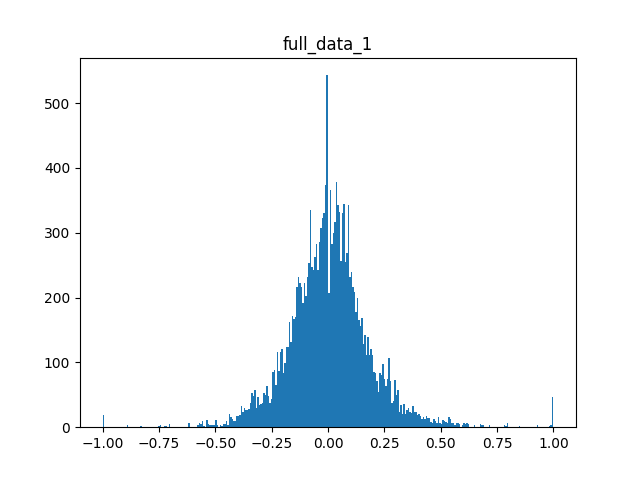
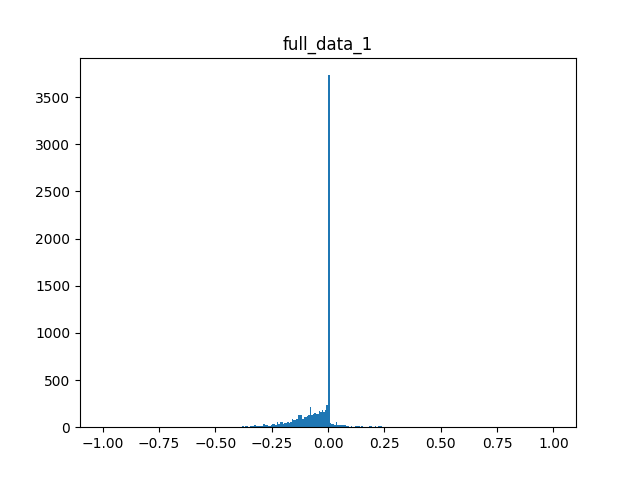
completed project

diff --git a/model.py b/model.py
@@ -28,14 +28,14 @@ with open(file_directory+"new_unbiased_driving_log.csv") as csvfile:
 
 def create_histogram(angle_array,bins=200,filename="histogram.png",range1=(-1,1)):
     n,bins,patches=plt.hist(angle_array,bins,range1)
-    plt.title(filename.split('.')[0])
-    plt.savefig(images_directory+filename)
-    plt.show()
+#    plt.title(filename.split('.')[0])
+#    plt.savefig(images_directory+filename)
+#    plt.show()
 
 
 #print("hi")
 np.random.seed(10)
-Split_data_ratio  = 0.5
+Split_data_ratio  = 0.70
 biased_data_ratio = 1.0
 biased_slab      = 0.005
 
@@ -87,7 +87,7 @@ def image_show(image,name="sample"):
     if ( not isinstance(name, str)):
         name ="display_name"
     cv2.imshow(name, image)
-    cv2.waitKey(1)
+    cv2.waitKey(0)
 
 def image_show_plt(image,name="sample"):
     plt.imshow(image)
@@ -107,13 +107,42 @@ def get_steering_angle(train_lines):
     return steering
 
 def Change_color(image):
-    # Needed as I trained my model on BGR image data
     return cv2.cvtColor(image,cv2.COLOR_BGR2RGB)
 
+def Change_colorSpace(image,color_space = "RGB"):
+    img_features = np.zeros(image.shape)
+    #2) Apply color conversion if other than 'RGB'
+    if color_space != 'RGB':
+        if color_space == 'HSV':
+            img_features = cv2.cvtColor(image, cv2.COLOR_RGB2HSV)
+        elif color_space == 'LUV':
+            img_features = cv2.cvtColor(image, cv2.COLOR_RGB2LUV)
+        elif color_space == 'HLS':
+            img_features = cv2.cvtColor(image, cv2.COLOR_RGB2HLS)
+        elif color_space == 'YUV':
+            img_features = cv2.cvtColor(image, cv2.COLOR_RGB2YUV)
+        elif color_space == 'YCrCb':
+            img_features = cv2.cvtColor(image, cv2.COLOR_RGB2YCrCb)
+    else: img_features = np.copy(image)
+    
+    return img_features
+
 def preprocessing(image):
-    image = Change_color(image)
+    color_space = "RGB"
+
+#    print(image)
+#    image = Change_color(image)
+#    save_image(image,"/Users/hemanth/Udacity/behavioralData/",name="model_RGB_image.png")
     image = trim_sky_hood(image)
+#    save_image(image,"/Users/hemanth/Udacity/behavioralData/",name="model_trim_image1.png")
+    image = Change_colorSpace(image, color_space)
+#    save_image(image,"/Users/hemanth/Udacity/behavioralData/",name="model_HLS_image1.png")
+
+#    image = resize_image(image,(64,64))
+#    print("image size",image.shape)
     image = resize_image(image,(64,64))
+#    save_image(image,"/Users/hemanth/Udacity/behsavioralData/",name="model_resize_image1.png")
+#    print("image size",image.shape)
     return image
 
 
@@ -156,8 +185,11 @@ def generateData(file_directory,train_lines,batch_size =1):
                 steering_flipped=[]
                 if(not '' in train_lines[itr][0:4]):
                     #image = cv2.imread(file_directory+train_lines[itr][0])
+                    image = cv2.imread(file_directory+'IMG/'+train_lines[itr][0].split('/')[-1])
+                    image = preprocessing(image)
                     try:
                         #image = cv2.imread(train_lines[itr][0])
+#                        print("file_directory: ",file_directory+'IMG/'+train_lines[itr][0].split('/')[-1],"::",train_lines[itr][0].split('/')[-1],"::",file_directory)
                         image = cv2.imread(file_directory+'IMG/'+train_lines[itr][0].split('/')[-1])
                         image = preprocessing(image)
                         '''
@@ -262,7 +294,7 @@ def generateData(file_directory,train_lines,batch_size =1):
 
 
 
-batch_size1 = 1
+batch_size1 = 10
 
 from keras.models import Sequential
 from keras.layers.core import Flatten,Dense,Lambda,Activation,Reshape,Dropout
@@ -282,15 +314,19 @@ model = Sequential()
 #rows,col,channels=90,320,3
 # Normalize the data
 model.add(Lambda(lambda x: x/127.5 - 1.,output_shape=(rows,col,channels),input_shape=(rows,col,channels)))
-# Trying resining to save time
+# Trying resizing to save time
 #model.add(Reshape((64, 64)))
 # Convolution layer 1
-model.add(Conv2D(18,3,1,activation='relu'))
+model.add(Conv2D(25,5,1,activation='relu'))
 # Feature map 24@43x158
 #model.add(Activation('relu'))
 # Feature map 24@43x158
 # Convolution layer 2
-model.add(Conv2D(24,3,1,activation='relu'))
+model.add(Conv2D(34,5,1,activation='relu'))
+
+model.add(Conv2D(46,5,2,activation='relu'))
+
+model.add(Conv2D(64,5,2,activation='relu'))
 # Feature Map of shape 36@20x77
 #model.add(Activation('relu'))
 # Feature Map of shape 36@20x77
@@ -312,13 +348,13 @@ model.add(Conv2D(24,3,1,activation='relu'))
 # Flatten the planes
 model.add(Flatten())
 # Feature Map of shape 8448
-model.add(Dense(1000))
+model.add(Dense(200))
 model.add(Dropout(0.4))
-model.add(Dense(100))
+model.add(Dense(150))
 #model.add(Dropout(0.4))
 # Feature Map of shape 100
 model.add(Activation('relu'))
-model.add(Dense(50))
+model.add(Dense(80))
 #model.add(Dropout(0.3))
 # Feature Map of shape 50
 model.add(Activation('relu'))
@@ -328,18 +364,18 @@ model.add(Dense(10))
 model.add(Activation('relu'))
 model.add(Dense(1))
 
-
+#'''
 #optimizing the loss functon
 adam = ks.optimizers.Adam(lr=0.0001, beta_1=0.9, beta_2=0.999, epsilon=1e-08, decay=0.0)
 model.compile(loss='mse',optimizer=adam)
 print("No of training images:" +str((len(train_lines))))
 epochs = 2
-model.fit_generator(generateData(file_directory,train_lines,batch_size = 1), int((4*len(train_lines))/batch_size1),epochs,1,None,generateData(file_directory,test_lines,batch_size = 1),int((4*len(test_lines))/batch_size1) )
+model.fit_generator(generateData(file_directory,train_lines,batch_size = batch_size1), int((4*len(train_lines))/batch_size1),epochs,1,None,generateData(file_directory,test_lines,batch_size = batch_size1),int((4*len(test_lines))/batch_size1) )
 
-model.save('model_dataset_12.h5')
+model.save('model_dataset_20.h5')
 print('model saved')
 
-
+#'''
 '''
 # Used for the testing inputdata is read properly
 batch_size1 = 1
@@ -355,11 +391,11 @@ for i in range(28398,int((4*len(train_lines))/batch_size1)):
         print(vales_retured[1])
         break
 
+
+
+
+
 '''
-
-
-
-
 
 '''
 for i,j in generateData(file_directory,lines):

diff --git a/data_distribution_check.py b/data_distribution_check.py
@@ -12,9 +12,15 @@ augmented_steering_angle_list = []
 train_steering_angle_array = []
 test_steering_angle_array = []
 correction = 0.2
-file_directory = "/Users/hemanth/Udacity/behavioralData/data_images/"
-#file_directory = "/Users/hemanth/Udacity/behavioralData/data_images_2/"
-images_directory = "/Users/hemanth/Udacity/CarND-Behavioral-Cloning-P3/images/"
+file_directory = "/Users/hemanth/Udacity/behavioralData/data/"
+#file_directory = "/Users/hemanth/Udacity/behavioralData/data_images/"
+#file_directory = "/Users/hemanth/Udacity/behavioralData/data_images/"
+#file_directory = "/Users/hemanth/Udacity/behavioralData/1_left/"
+#file_directory = "/Users/hemanth/Udacity/behavioralData/1_right/"
+#file_directory = "/Users/hemanth/Udacity/behavioralData/1_missed_curves/"
+#file_directory = "/Users/hemanth/Udacity/behavioralData/1_offroad/"
+#file_directory = "/Users/hemanth/Udacity/behavioralData/d1_smoothcurve/"
+images_directory = "/Users/hemanth/Udacity/BehavioralCloning/images/"
 
 with open(file_directory+"driving_log.csv") as csvfile:
 #with open(file_directory+"new_unbiased_driving_log.csv") as csvfile:
@@ -36,14 +42,14 @@ with open(file_directory+"driving_log.csv") as csvfile:
 def create_histogram(angle_array,bins=200,filename="histogram.png",range1=(-1,1)):
     n,bins,patches=plt.hist(angle_array,bins,range1)
     plt.title(filename.split('.')[0])
-    #plt.savefig(images_directory+filename)
+    plt.savefig(filename)
     plt.show()
 
 np.random.seed(10)
-Split_data_ratio  = 0.8
-biased_data_ratio = 0.2
-biased_left_slab  = 0
-biased_right_slab = 0.005
+Split_data_ratio  = 0.7
+biased_data_ratio = 0.2 # determines the percentage of the diased data to exist in the final dataset
+biased_left_slab  = 0 # left threshold from the center of biased data
+biased_right_slab = 0.005 # right threshold  from the center of biased data
 
 steering_angle_array = np.array(steering_angle_list)
 #biased_index = np.where(abs(steering_angle_array)<biased_slab)

diff --git a/drive.py b/drive.py
@@ -67,13 +67,41 @@ def resize_image(image,size=(64,64)):
 def image_show_plt(image,name="sample"):
     plt.imshow(image)
     plt.show()
+
+def Change_colorSpace(image,color_space = "RGB"):
+    img_features = np.zeros(image.shape)
+    #2) Apply color conversion if other than 'RGB'
+    if color_space != 'RGB':
+        if color_space == 'HSV':
+            img_features = cv2.cvtColor(image, cv2.COLOR_RGB2HSV)
+        elif color_space == 'LUV':
+            img_features = cv2.cvtColor(image, cv2.COLOR_RGB2LUV)
+        elif color_space == 'HLS':
+            img_features = cv2.cvtColor(image, cv2.COLOR_RGB2HLS)
+        elif color_space == 'YUV':
+            img_features = cv2.cvtColor(image, cv2.COLOR_RGB2YUV)
+        elif color_space == 'YCrCb':
+            img_features = cv2.cvtColor(image, cv2.COLOR_RGB2YCrCb)
+    else: img_features = np.copy(image)
+    
+    return img_features
+
+
+
 def preprocessing(image):
-    #image = Change_color(image)
+    color_space = "RGB"
+    image = Change_color(image)
     #trim the image
+    save_image(image,"/Users/hemanth/Udacity/behavioralData/",name="drive_RGB_image.png")
     image = trim_sky_hood(image)
+    save_image(image,"/Users/hemanth/Udacity/behavioralData/",name="drive_trim_image1.png")
+    image = Change_colorSpace(image, color_space)
+    save_image(image,"/Users/hemanth/Udacity/behavioralData/",name="drive_HLS_image1.png")
     # Added to resize the input image
     image = resize_image(image,(64,64))
+    save_image(image,"/Users/hemanth/Udacity/behavioralData/",name="drive_resize_image1.png")
     return image
+
 
 
 @sio.on('telemetry')

diff --git a/writeup.md b/writeup.md
@@ -1,50 +1,69 @@
 
 Overview
 ---
-In this project, deep neural networks and convolutional neural networks are used to clone the driving behavior. You will train, validate and test a model using Keras. The model will output a steering angle to an autonomous vehicle.
+In this project, deep neural networks and convolutional neural networks are used to clone the driving behavior of the driver. The model has been trained, validated and tested using Keras. The model will output a steering angle to an autonomous vehicle.
 
-A simulator provided by Udacity is used to generate training data by steering a car around a track. I had used image data and steering angles to train a neural network and then use this model to drive the car autonomously around the track.
+
 
 Data collection strategy
 ---
 I had quantified my data collection into 5 bins, each bin consist of a CSV file with images name, steering angle  and their corresponding images.
 
-1. clockwise bin : Data taken by driving in clockwise track
-2. counter clockwise bin : Data taken by driving in counter-clockwise track
-3. Off road : Data gathered mostly from driving back to the road from the Off rode
-4. Smooth curve : Data gathered while making smooth turns along the curves
-5. Missed curves : Data gathered where the trained model fails
+1. clockwise directory : Data taken by driving in clockwise track
+2. counter clockwise directory : Data taken by driving in counter-clockwise track
+3. Off road directory : Data gathered mostly from driving back to the road from the Off rode
+4. Smooth curve directory: Data gathered while making smooth turns along the curves
+5. Missed curves directory: Data gathered where the trained model fails
 
 I am checking the data distribution in each bin and creating a CSV file with more balanced steering data. Later I am combining balanced CSV files from all the bin and creating a final analysis bin. This helps in creating a much balanced training dataset
 
 
-70 percentage of the data is used for training while the rest is used for testing.
+I am using 70 percentage of the data is used for training while the rest is used for testing.
 
-Data distribution histograms
----
-[training_error]:https://github.com/willofdiamond/BehavioralCloning/blob/master/Images/ScreenShot.png
-[biased_data_1]:https://github.com/willofdiamond/BehavioralCloning/blob/master/Images/biased_data_1.png
-[final_unbiased]:https://github.com/willofdiamond/BehavioralCloning/blob/master/Images/final_unbiased_data.png
-[fulldata]:https://github.com/willofdiamond/BehavioralCloning/blob/master/Images/full_data_1.png
-[test_histogram]:https://github.com/willofdiamond/BehavioralCloning/blob/master/Images/test_histogram_1.png
-[train_histogram]:https://github.com/willofdiamond/BehavioralCloning/blob/master/Images/train_histogram_1.png
-[unbiased_data]:https://github.com/willofdiamond/BehavioralCloning/blob/master/Images/unbiased_data_1.png
+Data cleanup
+___
+All the directories mentioned in clockwise has a csv file, images directory.Most of the data is found to be biased in the  data_distribution_check.py file is used to clean up data, this file also generate a new CSV file with all the unbiased data. All the new csv files are combined and there corresponding images are kept in a separate folder for training and validation.
 
-### Dataset:
-Data from all the bins are combined to be used for training and validation.
-![Full data histogram][fulldata]
+#### parameters used to control the amount of biased data in the final selected set
+biased_data_ratio = 0.2 # determines the percentage of the diased data to exist in the final dataset
+biased_left_slab  = 0 # left threshold from the center of biased data
+biased_right_slab = 0.005 # right threshold  from the center of biased data
+Data generated from the  simulator steering angle is highly biased as visible in the below image.
+[Full data histogram][uncleaned data]
+![Full data histogram][Cleaned data]
+Cleaned data is shown below
+![Full data histogram][uncleaned Biased Data]
+!
 
-![Biased data histogram ][biased_data_1]
+#### Data distribution histograms
 
-![Unbiased data histogram][unbiased_data]
+[Cleaned data]:https://github.com/willofdiamond/BehavioralCloning/blob/master/Images/Cleaneddata.png
+[uncleaned Biased Data]:https://github.com/willofdiamond/BehavioralCloning/blob/master/Images/uncleanedBiasedData.png
+[uncleaned data]:https://github.com/willofdiamond/BehavioralCloning/blob/master/Images/uncleaneddata.png
+[biased data]:https://github.com/willofdiamond/BehavioralCloning/blob/master/Images/biased_data_1.png
+[final unbiased]:https://github.com/willofdiamond/BehavioralCloning/blob/master/Images/final_unbiased_data.png
+[Data used for Analysis]:https://github.com/willofdiamond/BehavioralCloning/blob/master/Images/full_data_1.png
+[test data histogram]:https://github.com/willofdiamond/BehavioralCloning/blob/master/Images/test_histogram_1.png
+[train data histogram]:https://github.com/willofdiamond/BehavioralCloning/blob/master/Images/train_histogram_1.png
+[unbiased data]:https://github.com/willofdiamond/BehavioralCloning/blob/master/Images/unbiased_data_1.png
 
-![Final unbiased histogram][final_unbiased]
+[test result video]:https://www.youtube.com/watch?v=oh_4m896i4Q&feature=youtu.be
 
-![Trained histogram ][train_histogram]
 
-![Test histogram][test_histogram]
+Histogram distribution of the cleaned data
+![Full data histogram][Data used for Analysis]
 
-![Training error ][training_error]
+![Biased data histogram ][biased data]
+
+![Unbiased data histogram][unbiased data]
+
+![Final unbiased histogram][final unbiased]
+
+![Trained histogram ][train data histogram]
+
+![Test histogram][test data histogram]
+
+
 
 
 
@@ -62,6 +81,7 @@ Data Augmentation:
 Data augmentation is used to  generate more data from the known possibilities of assumed situations. Techniques used fir my project were
 
 * Flipping the images left to right and negating the steering values
+* used the images from left and right cameras of the car with a correction to the steering angle to obtain their corresponding steering angle.
 * using corrected steering values for left and right cameras
 
 
@@ -73,7 +93,22 @@ Data for models are generated as one by one and feed directly to the model to av
 
 Model Selections
 ---
-I had initially started with a single input images layer and tried out different models.
+I had initially started with a single input images layer and tried out different models. I had tried  NVIDIA and Lenet models. Lenet is not does not give the desired result Nvidia architecture give good result. But I had further changed the model. My current model has four convolution layers.
+
+|Layers                | window   | strides   |features|  activation |
+|:-------------:|:-------------:|:-----:|:--------:|:---------:|
+| convolution layer   | 5       | 1     |    25    |     relu      |
+| convolution layer   | 5       | 1     |   34     |   relu        |
+| convolution layer   | 5       |2      |   46     |    relu       |
+| convolution layer   | 5       |2      |   64    |    relu       |
+|Dense layer                |  none      |    none   |   200     |    relu      |
+|Dense layer                 |   none     |   none   |     150    |    relu       |
+|Dense layer                 |    none     |  none    |   80      |    relu       |
+|Dense layer                 |   none     |  none    |     10    |   relu        |
+
+
+
+
 
 
 
@@ -83,5 +118,5 @@ Techniques learned:
 
 Test Result:
 ---
-I am failing at the corners, lane with no white boundary and sharp curves.
-[test result video](https://github.com/willofdiamond/BehavioralCloning/blob/master/run.mp4)
+I am failing at the corners, lane with no white boundary and sharp curves
+[link to the project video][test result video]
